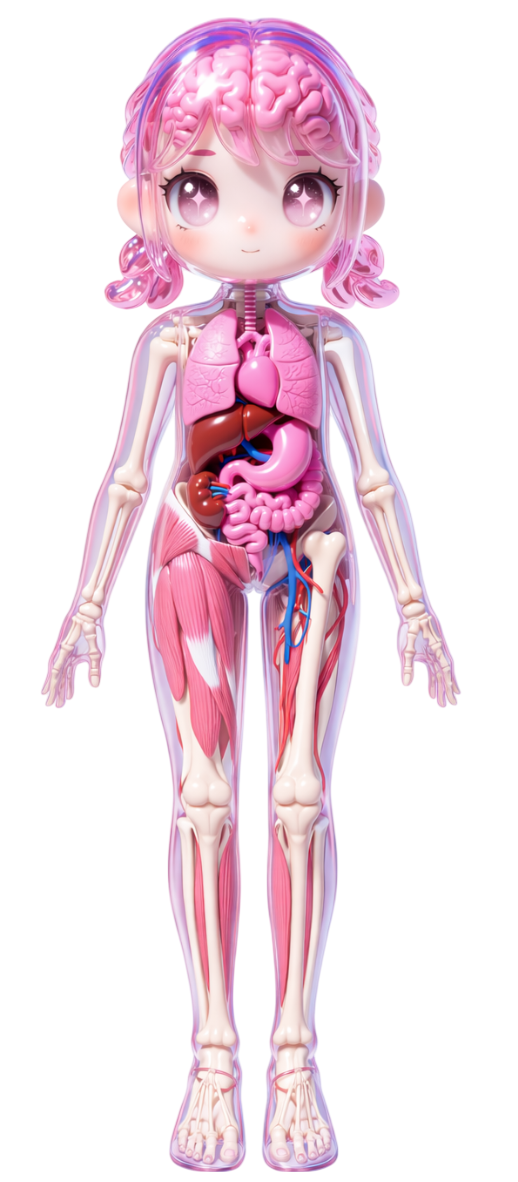
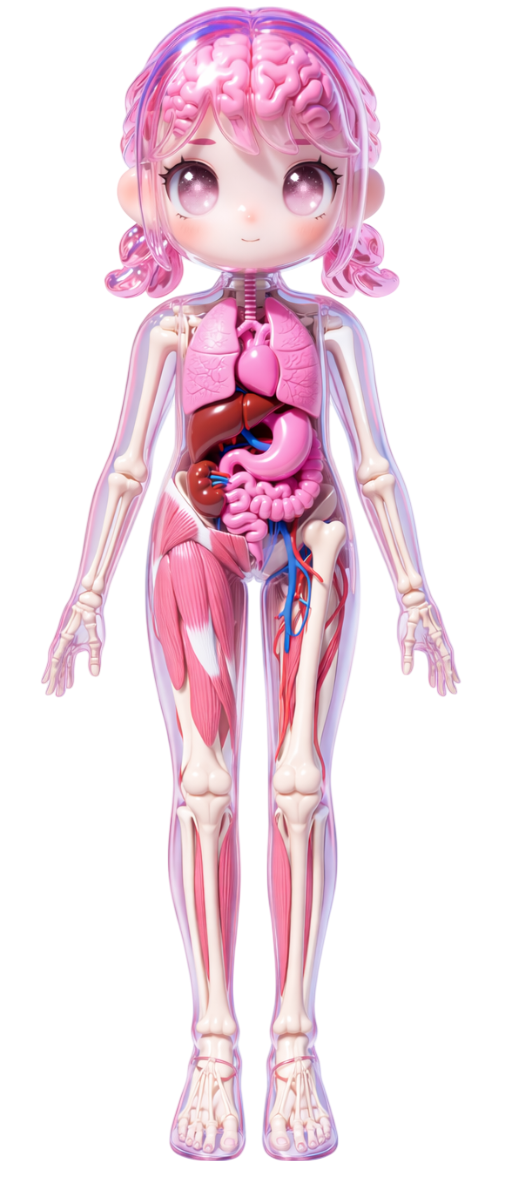
0414 18:06 commit

Changed region(s): [[0.0618, 0.0, 0.8958, 1.0], [0.4942, 0.7614, 0.5251, 0.7919]]

diff --git a/src/main/webapp/css/body.css b/src/main/webapp/css/body.css
@@ -52,7 +52,7 @@ body {
     /* clip-path 완전 제거 */
     /* overflow visible 불필요하므로 제거 */
 
-    margin-top: -20px; /* ← 숫자 조정 */
+    margin-top: -6px; /* ← 숫자 조정 */
 }
 
 .svg-wrap svg {
@@ -60,7 +60,7 @@ body {
     width: 100%;
     height: 100%;
     position: absolute;
-    top: -5px; /* background-position 값이랑 동일하게 */
+    top: -12px; /* background-position 값이랑 동일하게 */
     left: 0;
 }
 
@@ -513,7 +513,7 @@ body {
     .col-right {
         grid-column: 1;
         grid-row: 3;
-        margin-top: -40px; /* background-position 값이랑 동일하게 */
+        margin-top: -8px; /* background-position 값이랑 동일하게 */
 
     }
 
@@ -521,7 +521,7 @@ body {
     .svg-wrap {
         max-width: 380px;
         margin: 0 auto;
-        top: -20px; /* background-position 값이랑 동일하게 */
+        top: -9px; /* background-position 값이랑 동일하게 */
     }
 
     /* 체크박스는 SVG 아래 바로 */

diff --git a/src/main/java/com/groot/app/mypage/MyPage.java b/src/main/java/com/groot/app/mypage/MyPage.java
@@ -3,6 +3,7 @@ package com.groot.app.mypage;
 import com.groot.app.product.ProductDAO;
 import com.groot.app.product.ProductDTO;
 import com.groot.app.user.UserDTO;
+import com.google.gson.Gson;
 
 import javax.servlet.ServletException;
 import javax.servlet.annotation.WebServlet;
@@ -17,59 +18,18 @@ import java.util.Map;
 @WebServlet(name = "MyPage", value = "/mypage")
 public class MyPage extends HttpServlet {
 
-    public void doGet(HttpServletRequest request, HttpServletResponse response) throws IOException, ServletException {
-        // 사물함(세션)에서 "loginUser"라는 이름표가 붙은 상자(UserDTO)를 통째로 꺼냅니다.
-        UserDTO loginUser = (com.groot.app.user.UserDTO) request.getSession().getAttribute("loginUser");
+    public void doGet(HttpServletRequest request, HttpServletResponse response)
+            throws IOException, ServletException {
 
-        // 상자가 비어있지 않다면(로그인 상태라면), 상자를 열어서 그 안의 ID 값을 꺼냅니다.
+        UserDTO loginUser = (UserDTO) request.getSession().getAttribute("loginUser");
         if (loginUser == null) {
-            response.sendRedirect("user-Login"); // 이동할 로그인 주소를 맞춰주세요.
-            return; // ★ 중요: 여기서 코드를 끝내버려서 밑으로 안 내려가게 막습니다.
+            response.sendRedirect("user-Login");
+            return;
         }
-        // 여기까지 내려왔다는 것은 100% 로그인이 되어있다는 뜻! 안전하게 ID를 꺼냅니다.
         String userId = loginUser.getUser_id();
 
-        // 전체 리스트 확인용
-        ProductDAO.PDAO.showAllProducts(request);
-
-        // ======================================================================
-        // 내가 찜한 영양성분 리스트 가져오기_여은사
-        request.setAttribute("nutrients", ProductDAO.PDAO.getAllNutrients(request));
-        // ======================================================================
-
-        // 화면에 띄울 '내 영양제' (MyPageDAO에 새로 만들어야 함)
-        ArrayList<ProductDTO> myProducts = MyPageDAO.MDAO.getUserProducts(userId);
-        ArrayList<Integer> intakeList = MyPageDAO.MDAO.getTodayIntakeList(userId);
-
-        // 3. 당월 복용 통계 데이터 로드 (JSP의 c:forEach용)
-        LocalDate now = LocalDate.now();
-        int currentYear = now.getYear();
-        int currentMonth = now.getMonthValue();
-
-        ArrayList<Map<String, Object>> monthlyStats =
-                MyPageDAO.MDAO.getMonthlyIntakeStatistics(userId, currentYear, currentMonth);
-
-        // ======================================================================
-        // 내가 찜한 영양성분 리스트 가져오기_여은사
-        ArrayList<com.groot.app.supplements.SupplementsDTO> likedSupplements =
-                MyPageDAO.MDAO.getLikedSupplements(userId, "recent");
-        // ======================================================================
-
-        //데이터 바인딩
-        request.setAttribute("myProducts", myProducts);
-        request.setAttribute("intakeList", intakeList); // JSP에서 체크 여부 판단용
-        request.setAttribute("monthlyStats", monthlyStats); // 통계 데이터 전달
-        request.setAttribute("likedSupplements", likedSupplements); // 찜한 영양성분 전달
-
-        // HomeServlet.java 예시
-        request.setAttribute("content", "mypage/mypage.jsp");
-        request.setAttribute("activeTab", "home");
-        request.getRequestDispatcher("index.jsp").forward(request, response);
-
-        // MyPage.java doGet 상단에 추가
+        // ── AJAX 정렬 요청은 가장 먼저 처리하고 return ──
         String action = request.getParameter("action");
-
-// 정렬 AJAX 요청 처리
         if ("myLikes".equals(action)) {
             response.setContentType("application/json; charset=UTF-8");
             String sort = request.getParameter("sort");
@@ -77,23 +37,40 @@ public class MyPage extends HttpServlet {
 
             ArrayList<com.groot.app.supplements.SupplementsDTO> list =
                     MyPageDAO.MDAO.getLikedSupplements(userId, sort);
-
-            // Gson으로 JSON 직렬화
-            com.google.gson.Gson gson = new com.google.gson.Gson();
-            response.getWriter().print(gson.toJson(list));
-            return;
+            response.getWriter().print(new Gson().toJson(list));
+            return; // ← 여기서 끝, 아래 페이지 렌더링 안 함
         }
-    }
 
-    protected void doPost(HttpServletRequest request, HttpServletResponse response) throws ServletException, IOException {
+        // ── 일반 페이지 렌더링 ──
+        ProductDAO.PDAO.showAllProducts(request);
+        request.setAttribute("nutrients", ProductDAO.PDAO.getAllNutrients(request));
 
+        ArrayList<ProductDTO> myProducts = MyPageDAO.MDAO.getUserProducts(userId);
+        ArrayList<Integer> intakeList = MyPageDAO.MDAO.getTodayIntakeList(userId);
 
+        LocalDate now = LocalDate.now();
+        int currentYear = now.getYear();
+        int currentMonth = now.getMonthValue();
+
+        ArrayList<Map<String, Object>> monthlyStats =
+                MyPageDAO.MDAO.getMonthlyIntakeStatistics(userId, currentYear, currentMonth);
+
+        ArrayList<com.groot.app.supplements.SupplementsDTO> likedSupplements =
+                MyPageDAO.MDAO.getLikedSupplements(userId, "recent");
+
+        request.setAttribute("myProducts", myProducts);
+        request.setAttribute("intakeList", intakeList);
+        request.setAttribute("monthlyStats", monthlyStats);
+        request.setAttribute("likedSupplements", likedSupplements);
         request.setAttribute("content", "mypage/mypage.jsp");
         request.setAttribute("activeTab", "home");
         request.getRequestDispatcher("index.jsp").forward(request, response);
-
     }
 
-    public void destroy() {
+    protected void doPost(HttpServletRequest request, HttpServletResponse response)
+            throws ServletException, IOException {
+        request.setAttribute("content", "mypage/mypage.jsp");
+        request.setAttribute("activeTab", "home");
+        request.getRequestDispatcher("index.jsp").forward(request, response);
     }
 }
